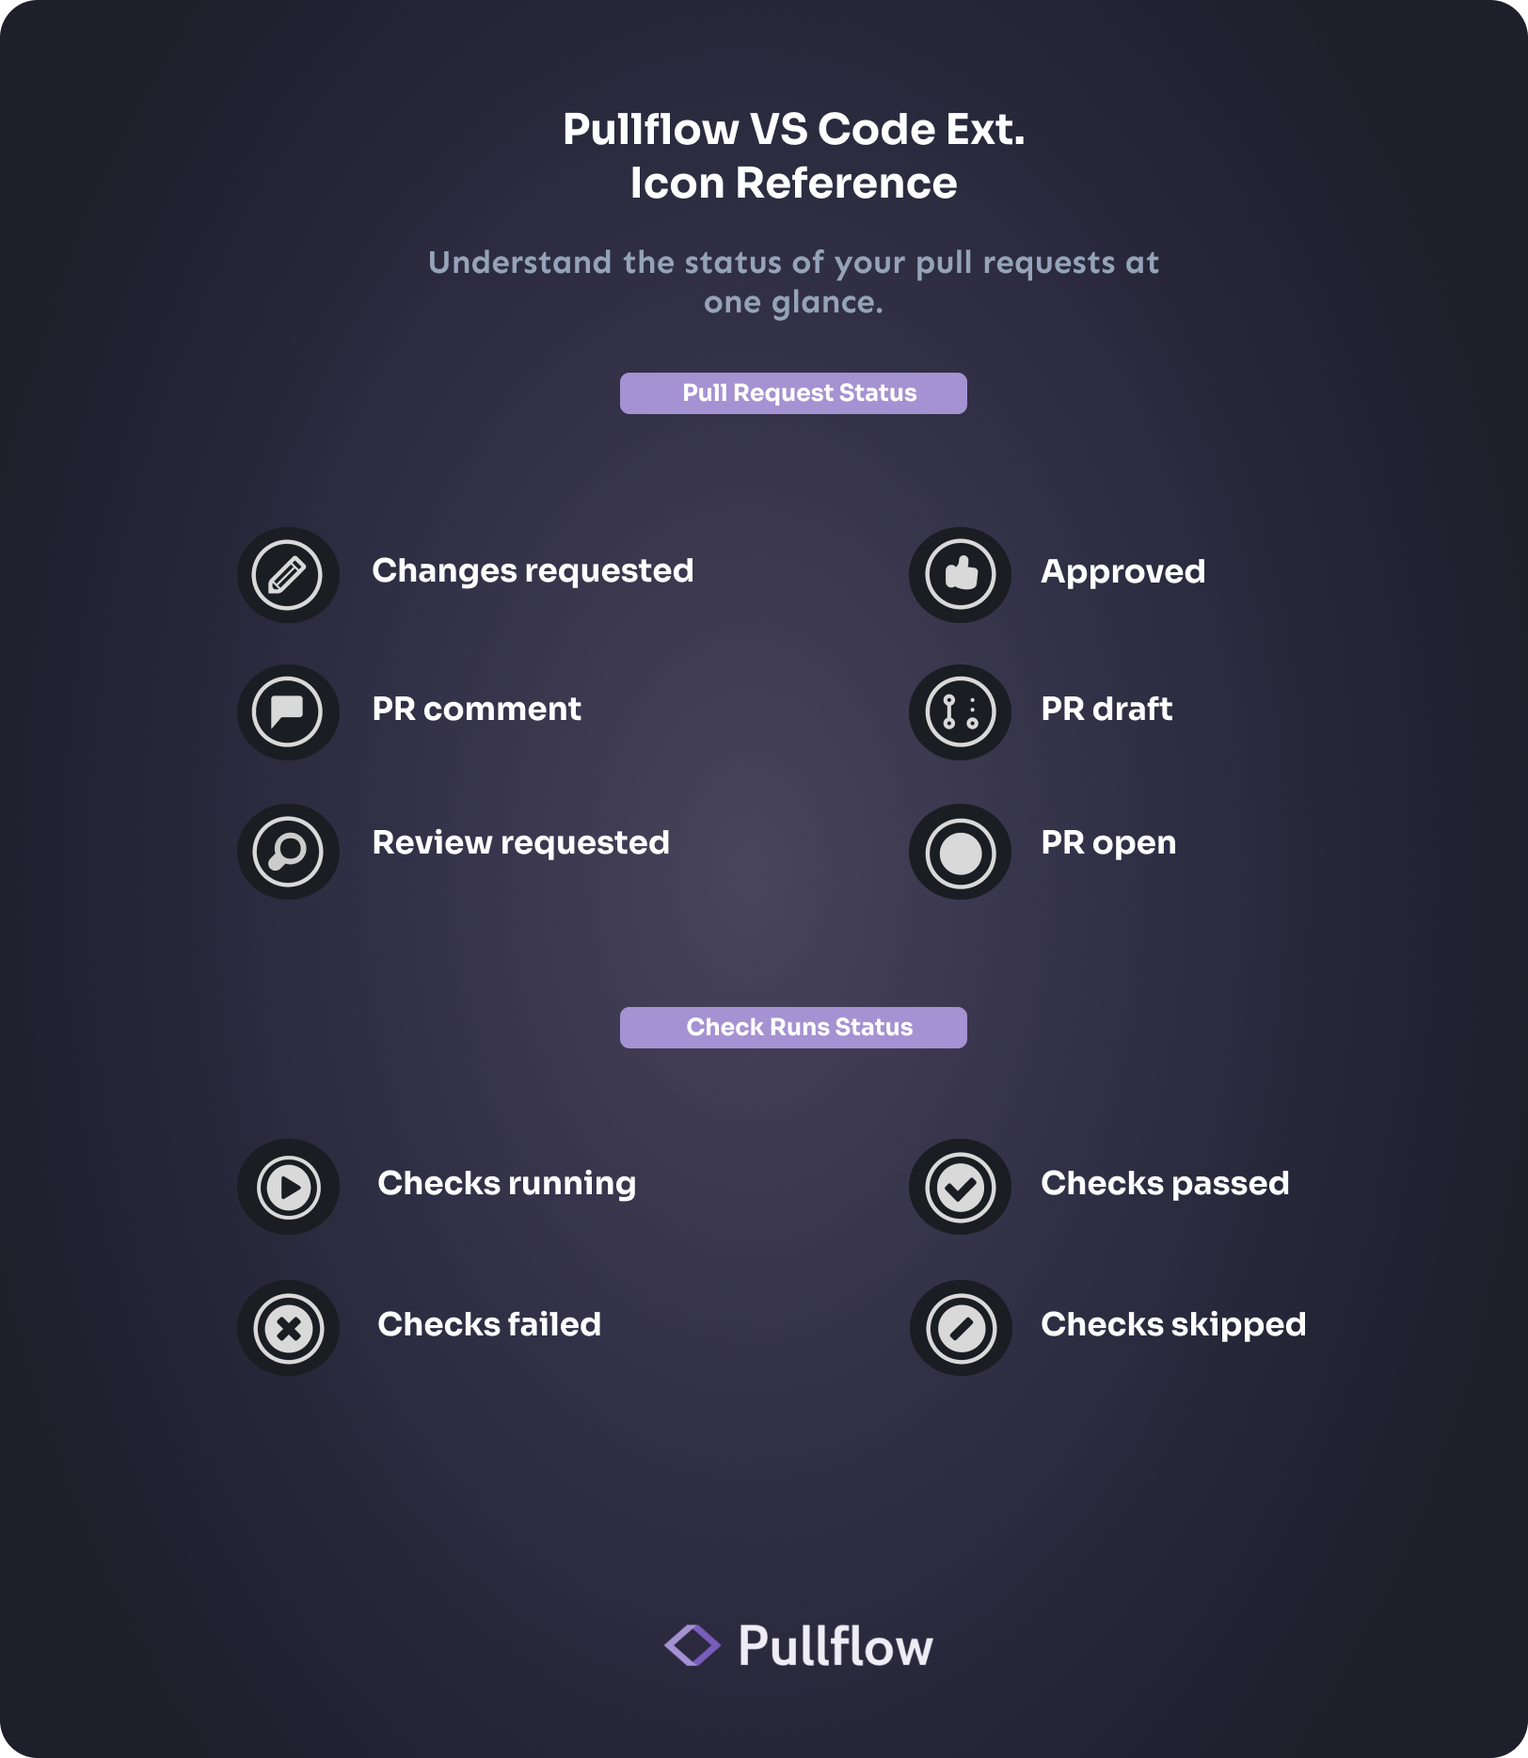
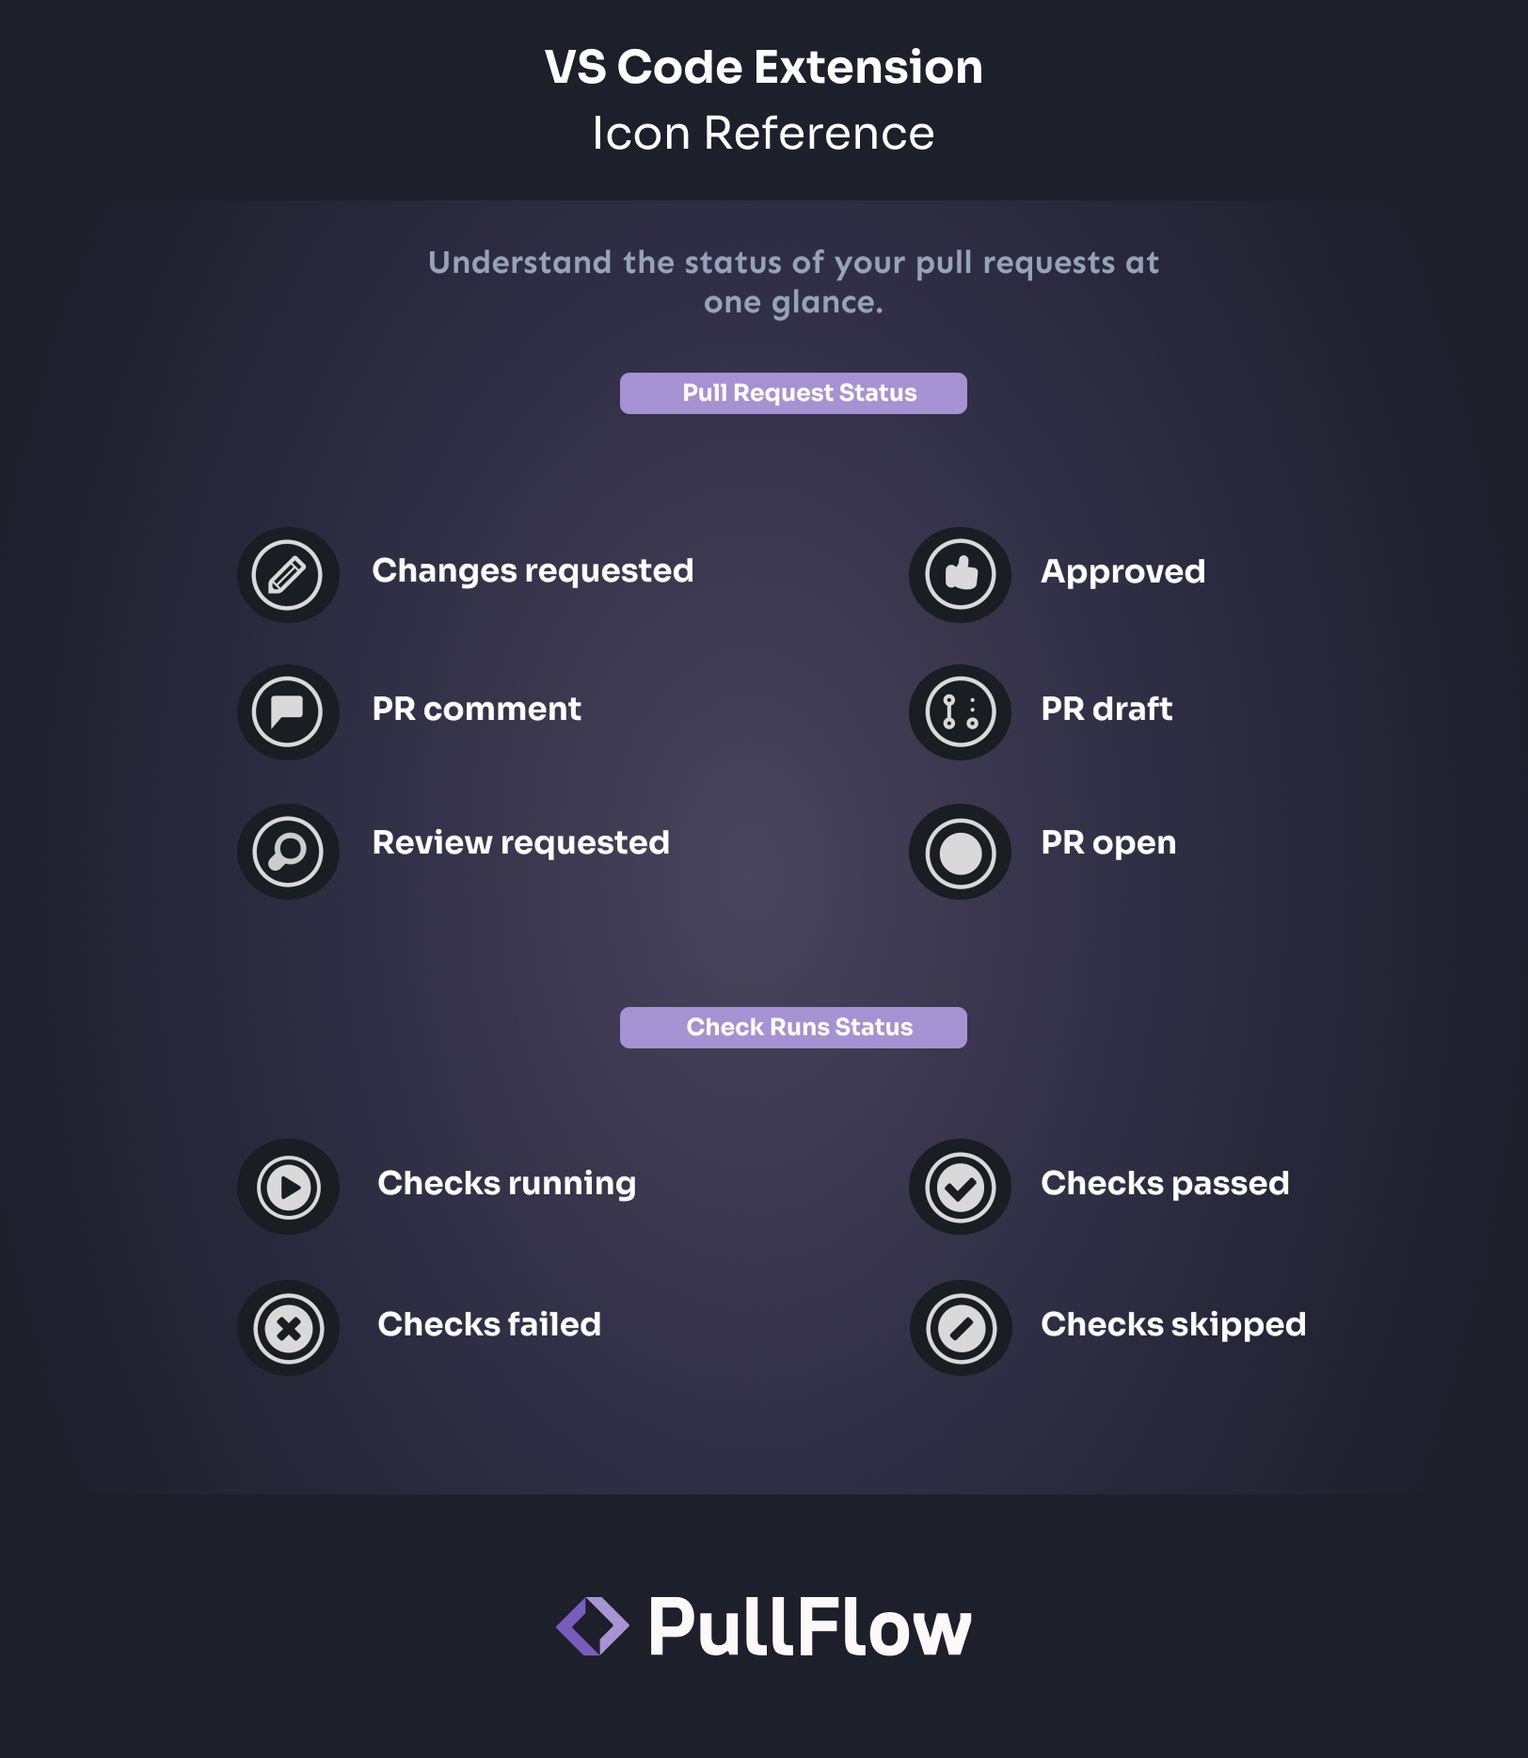
Update branding to use proper PullFlow naming conventions
- Updated all references from 'pullflow' to 'PullFlow' for consistent branding
- Modified package.json display name and publisher fields
- Updated README.md with correct PullFlow branding
- Standardized logo and icon references
- Updated all code references to use proper PullFlow casing
- Maintained technical functionality while improving brand consistency

diff --git a/src/views/webviews/welcome/welcome.ts b/src/views/webviews/welcome/welcome.ts
@@ -1,7 +1,7 @@
 import { ExtensionContext, ViewColumn, Webview, window, Uri } from 'vscode'
 
 const WelcomeView = {
-  title: 'Welcome to Pullflow',
+  title: 'Welcome to PullFlow',
   type: 'welcome-view',
 }
 
@@ -13,7 +13,7 @@ export const Welcome = {
       WelcomeView.title,
       column
     )
-    panel.iconPath = Uri.joinPath(context.extensionUri, 'assets/pullflow.png')
+    panel.iconPath = Uri.joinPath(context.extensionUri, 'assets/pullflow-logo.png')
     panel.webview.html = Welcome.getHtml(panel.webview, context)
     panel.reveal(column)
   },
@@ -30,14 +30,14 @@ export const Welcome = {
     <html lang="en">
 
     <head>
-      <title>Welcome to Pullflow</title>
+      <title>Welcome to PullFlow</title>
 
       <link rel="stylesheet" href=${stylePath} />
     </head>
 
     <body>
       <header>
-        <img src="${assetsPath}/pullflow-logo.png" alt="Pullflow" />
+        <img src="${assetsPath}/pullflow-logo.png" alt="PullFlow" />
         <div id="desc">
           <p>AI-enhanced code review collaboration across GitHub, Slack, and VS Code.</p>
         </div>
@@ -46,10 +46,10 @@ export const Welcome = {
         <section class="column">
 
           <div id="intro">
-            <p>Pullflow is an AI-enhanced code review collaboration platform backed by the co-founder of GitHub and used by
+            <p>PullFlow is an AI-enhanced code review collaboration platform backed by the co-founder of GitHub and used by
               some of the most innovative dev teams including <strong> Epic Games, Avenue, Hear.com,
                 and RedwoodJS. </strong> </p>
-            <p>Sign in to your accounts with Pullflow to enable bidirectional sync between GitHub, Slack and VS Code. New to Pullflow? <a
+            <p>Sign in to your accounts with PullFlow to enable bidirectional sync between GitHub, Slack and VS Code. New to PullFlow? <a
                 href="https://pullflow.com">Sign up for free.</a>
             </p>
           </div>
@@ -57,7 +57,7 @@ export const Welcome = {
             <img src="${assetsPath}/main.png" id="main-img" alt="Main" />
           </div>
           <div>
-            <h3>Supercharge your workflow with Pullflow for VS Code</h3>
+            <h3>Supercharge your workflow with PullFlow for VS Code</h3>
             <ul>
               <li>&nbsp;&nbsp;&nbsp;Effortlessly communicate across GitHub, Slack, and VS Code.</li>
               <li>&nbsp;&nbsp;&nbsp;Engage in meaningful conversations with contextual AI during PR discussions.</li>
@@ -104,14 +104,14 @@ export const Welcome = {
           <div id="get-started-section">
             <h3>Get Started</h3>
             <div>
-              <span> Pullflow is integrated with GitHub, Slack, and VS Code to help you merge PRs 4X faster. Here is
+              <span> PullFlow is integrated with GitHub, Slack, and VS Code to help you merge PRs 4X faster. Here is
                 how you can get started.</span>
             </div>
             <div>
               <ol>
-                <li>Sign up on <a href="https://app.pullflow.com"> Pullflow</a> and connect your Slack and GitHub accounts.
+                <li>Sign up on <a href="https://app.pullflow.com"> PullFlow</a> and connect your Slack and GitHub accounts.
                 </li>
-                <li> Click on <strong>Sign in to Pullflow</strong> from the VS Code status bar. </li>
+                <li> Click on <strong>Sign in to PullFlow</strong> from the VS Code status bar. </li>
                 <li> Thats it! Incoming PRs will show on your status bar</li>
                 <ol>
             </div>
@@ -121,29 +121,29 @@ export const Welcome = {
             <table>
               <tbody>
                 <tr>
-                  <td>Pullflow: Active Pull Requests (Ctrl/Cmd+Shift+,)</td>
+                  <td>PullFlow: Active Pull Requests (Ctrl/Cmd+Shift+,)</td>
                 </tr>
                 <tr>
-                  <td>Pullflow: Sign in</td>
+                  <td>PullFlow: Sign in</td>
                 </tr>
                 <tr>
-                  <td>Pullflow: Sign out</td>
+                  <td>PullFlow: Sign out</td>
                 </tr>
                 <tr>
-                  <td>Pullflow: Reconnect</td>
+                  <td>PullFlow: Reconnect</td>
                 </tr>
                 <tr>
-                  <td>Pullflow: Welcome</td>
+                  <td>PullFlow: Welcome</td>
                 </tr>
               </tbody>
             </table>
           </div>
           <div>
             <h3>Become a Contributor</h3>
-            <p>This extension is an open-source project created by <a href="https://github.com/pullflow">Pullflow Inc</a>.
+            <p>This extension is an open-source project created by <a href="https://github.com/pullflow">PullFlow Inc</a>.
               We encourage contributions, bug reports, and new feature suggestions. Feel free to fork the repository and add
               your own features.</p>
-            <p>This is just the beginning of Pullflow's VS Code extension, and we are eager to make improvements
+            <p>This is just the beginning of PullFlow's VS Code extension, and we are eager to make improvements
               based on your feedback. Please don't hesitate to share your thoughts with us through <a
                 href="https://github.com/pullflow/pullflow/issues">GitHub Issues</a> or on Twitter <a
                 href="https://twitter.com/pullflow">@pullflow</a>.</p>
@@ -151,7 +151,7 @@ export const Welcome = {
         </section>
       </section>
       <footer id="footer">
-        <i>The Pullflow team created this tool to help developers work more efficiently. It combines code management,
+        <i>The PullFlow team created this tool to help developers work more efficiently. It combines code management,
           review, and team chat in one place, so you don't have to switch between different apps. </i>
         </div>
       </footer>

diff --git a/src/pullRequestQuickActions/pullRequestQuickActions.ts b/src/pullRequestQuickActions/pullRequestQuickActions.ts
@@ -89,13 +89,13 @@ export const PullRequestQuickActions = {
         `${
           response.message
             ? response.message
-            : 'Pullflow: Something went wrong, failed to approve pull request'
+            : 'PullFlow: Something went wrong, failed to approve pull request'
         }`
       )
       return false
     }
 
-    window.showInformationMessage(`Pullflow: Pull request approved`)
+    window.showInformationMessage(`PullFlow: Pull request approved`)
     await Presence.set({
       status: PresenceStatus.Active,
       context,
@@ -214,7 +214,7 @@ export const PullRequestQuickActions = {
         }
 
         window.showInformationMessage(
-          `Pullflow: ${item[0].label} added as reviewer to pull request #${codeReview.prNumber}.`
+          `PullFlow: ${item[0].label} added as reviewer to pull request #${codeReview.prNumber}.`
         )
         return true
       },
@@ -296,7 +296,7 @@ export const PullRequestQuickActions = {
         )
         return false
       }
-      window.showInformationMessage(`Pullflow: Successfully set reminder.`)
+      window.showInformationMessage(`PullFlow: Successfully set reminder.`)
       return true
     }
 

diff --git a/src/utils/pullRequestsState.ts b/src/utils/pullRequestsState.ts
@@ -43,7 +43,7 @@ export const PullRequestState = {
     // if codeReviews contain error message
     if (codeReviews.requireRelogin) {
       log.error(codeReviews.error, module)
-      window.showInformationMessage(`Pullflow: Please login again`)
+      window.showInformationMessage(`PullFlow: Please login again`)
       commands.executeCommand(Command.signOut)
       return
     }
@@ -54,7 +54,7 @@ export const PullRequestState = {
         StatusBar.update({ context, statusBar, state: StatusBarState.Error })
       }
       window.showErrorMessage(
-        `Pullflow: Couldn't fetch pull requests. ${codeReviews.error.message}`
+        `PullFlow: Couldn't fetch pull requests. ${codeReviews.error.message}`
       )
       return
     }

diff --git a/src/commands/reconnect.ts b/src/commands/reconnect.ts
@@ -12,7 +12,7 @@ export const Reconnect = async (
   context: ExtensionContext,
   statusBar: StatusBarItem
 ) => {
-  log.info(`reconnecting to Pullflow`, module)
+  log.info(`reconnecting to PullFlow`, module)
 
   const session = await Authorization.currentSession(context)
   if (!session) {
@@ -28,7 +28,7 @@ export const Reconnect = async (
   // if codeReviews contain error message
   if (codeReviews.requireRelogin) {
     log.error(codeReviews.error, module)
-    window.showInformationMessage(`Pullflow: Please login again`)
+    window.showInformationMessage(`PullFlow: Please login again`)
     commands.executeCommand(Command.signOut)
     return
   }

diff --git a/src/commands/signIn.ts b/src/commands/signIn.ts
@@ -22,7 +22,7 @@ export const SignIn = async ({
   )
   const user = await Authorization.waitForUser(context, SIGN_IN_TIME_OUT)
   if (!user) {
-    window.showErrorMessage('Pullflow: Sign in failed')
+    window.showErrorMessage('PullFlow: Sign in failed')
     return
   }
   const session =
@@ -30,7 +30,7 @@ export const SignIn = async ({
     (await Authorization.createSession({ user, context }))
 
   if (!session) {
-    window.showErrorMessage('Pullflow: Sign in failed')
+    window.showErrorMessage('PullFlow: Sign in failed')
     return
   }
   await initialize({ context, statusBar })

diff --git a/src/views/statusBar/statusBar.ts b/src/views/statusBar/statusBar.ts
@@ -23,13 +23,13 @@ const statusBarProperties = {
     command: Command.activePullRequests,
     backgroundColor: new ThemeColor(Theme.statusBar.success),
     text: '',
-    tooltip: 'Pullflow - Active Pull Requests',
+    tooltip: 'PullFlow - Active Pull Requests',
   },
   signedOut: {
     command: Command.signIn,
     backgroundColor: new ThemeColor(Theme.statusBar.error),
-    text: '⚠ Sign in to Pullflow',
-    tooltip: 'Sign in to Pullflow account',
+    text: '⚠ Sign in to PullFlow',
+    tooltip: 'Sign in to PullFlow account',
   },
   loading: {
     command: null,

diff --git a/src/messages/messagePublisher.ts b/src/messages/messagePublisher.ts
@@ -87,8 +87,8 @@ export const MessagePublisher = {
 
     if (!toAccount.hasUser) {
       window.showInformationMessage(
-        `Failed to send message to ${toAccount.xid} because they are not a Pullflow user.
-            Please ask them to sign up to Pullflow at: https://app.pullflow.com`
+        `Failed to send message to ${toAccount.xid} because they are not a PullFlow user.
+            Please ask them to sign up to PullFlow at: https://app.pullflow.com`
       )
       return null
     }

diff --git a/src/commands/activePullRequests.ts b/src/commands/activePullRequests.ts
@@ -16,7 +16,7 @@ export const ActivePullRequests = (
     !codeReviews?.pendingUserCodeReviews?.length &&
     !codeReviews?.userAuthoredCodeReviews?.length
   ) {
-    window.showInformationMessage('Pullflow: You have no PRs waiting for you.')
+    window.showInformationMessage('PullFlow: You have no PRs waiting for you.')
     return
   }
 

diff --git a/src/utils/trace.ts b/src/utils/trace.ts
@@ -13,7 +13,7 @@ import { Store } from './store'
 import { AppConfig } from './appConfig'
 import { log } from './logger'
 
-const extensionInfo = extensions.getExtension('Pullflow.pullflow')?.packageJSON
+const extensionInfo = extensions.getExtension('PullFlow.pullflow')?.packageJSON
 
 type FakeTracer = {}
 type FakeBasicTracerProvider = {}

diff --git a/src/utils/logger.ts b/src/utils/logger.ts
@@ -1,6 +1,6 @@
 import { window } from 'vscode'
 
-const outputChannel = window.createOutputChannel('Pullflow')
+const outputChannel = window.createOutputChannel('PullFlow')
 
 const logMessage = (level: string, text: string, module: string) =>
   outputChannel.append(

diff --git a/README.md b/README.md
@@ -1,21 +1,21 @@
-## Pullflow for VS Code
+## PullFlow for VS Code
 
-Pullflow is a code review collaboration platform backed by the co-founder of GitHub and used by some of the most innovative dev teams, including **Epic Games, Avenue, Hear.com,** and **RedwoodJS.** New to Pullflow? See how you can merge quality PRs **4X** faster with synchronized conversation between developers, systems, and AI, across GitHub, Slack & VS Code.
+PullFlow is a code review collaboration platform backed by the co-founder of GitHub and used by some of the most innovative dev teams, including **Epic Games, Avenue, Hear.com,** and **RedwoodJS.** New to PullFlow? See how you can merge quality PRs **4X** faster with synchronized conversation between developers, systems, and AI, across GitHub, Slack & VS Code.
 
 **[Sign up at pullflow.com](https://pullflow.com)**.
 
-> “Love at first PR. Pullflow's beauty lies in its simplicity, which seamlessly integrates with your existing tools and streamlines the code review process. It lets me focus on writing code instead of navigating clunky interfaces.” - **Bhavin Vyas, Vice President @ WorkBoard**
+> “Love at first PR. PullFlow's beauty lies in its simplicity, which seamlessly integrates with your existing tools and streamlines the code review process. It lets me focus on writing code instead of navigating clunky interfaces.” - **Bhavin Vyas, Vice President @ WorkBoard**
 >
 
-The **Pullflow VS Code extension** brings all your code review workflows and collaboration into your IDE, helping you prioritize PRs, stay in the loop, take quick actions, and return to your flow state.
+The **PullFlow VS Code extension** brings all your code review workflows and collaboration into your IDE, helping you prioritize PRs, stay in the loop, take quick actions, and return to your flow state.
 
 ![main.png](./assets/main.png)
 
 ### Quick Start
 ---
 
-1. **Installation**: Install the “Pullflow” extension from the Visual Studio Marketplace or Open VSX Registry.
-2. **Sign in**: Click on “Sign in to Pullflow” from the VS Code status bar.
+1. **Installation**: Install the “PullFlow” extension from the Visual Studio Marketplace or Open VSX Registry.
+2. **Sign in**: Click on “Sign in to PullFlow” from the VS Code status bar.
 3. **Ready to use**: The extension is now ready to use ✨
 
 ## Key Features
@@ -51,7 +51,7 @@ Engage with your team by responding to comments quickly
 
 **Perfect Companion to GitHub Pull Request and Issues Extension**
 
-Access and review GitHub pull requests directly from your VS Code interface using the [GitHub Pull Requests and Issues](https://marketplace.visualstudio.com/items?itemName=GitHub.vscode-pull-request-github) extension. With Pullflow, all your code review activity will synchronize across GitHub and Slack.
+Access and review GitHub pull requests directly from your VS Code interface using the [GitHub Pull Requests and Issues](https://marketplace.visualstudio.com/items?itemName=GitHub.vscode-pull-request-github) extension. With PullFlow, all your code review activity will synchronize across GitHub and Slack.
 
 ![pr-github.gif](./assets/pr-github.gif)
 
@@ -65,9 +65,9 @@ The extension offers a convenient way to quickly understand the status of your P
 **Compatibility and Requirements**
 ---
 
-The Pullflow VS Code Extension requires:
+The PullFlow VS Code Extension requires:
 
-1. Pullflow account set up with Slack and GitHub connected
+1. PullFlow account set up with Slack and GitHub connected
 2. Visual Studio Code version 1.70.0 or above
 
 ## Data Security and Privacy
@@ -81,19 +81,19 @@ Prefer to opt out? No problem. Simply follow these steps:
 
 1. Press Ctrl + Shift + P (or Command + Shift + P on Mac).
 2. Go to `Preferences: Open Workspace Settings`
-3. Search for `Pullflow Flow`
-4. Uncheck `Pullflow > Automatic flow detection`
+3. Search for `PullFlow Flow`
+4. Uncheck `PullFlow > Automatic flow detection`
 5. Reload extension
 
 ## Contributing
 
-This extension is an open-source project created by [Pullflow Inc](https://github.com/pullflow/vscode-pullflow). We encourage contributions, bug reports, and new feature suggestions. Feel free to fork the repository and add your own features.
+This extension is an open-source project created by [PullFlow Inc](https://github.com/pullflow/vscode-pullflow). We encourage contributions, bug reports, and new feature suggestions. Feel free to fork the repository and add your own features.
 
-This is just the beginning of Pullflow's VS Code Slack integration, and we are eager to make improvements based on your feedback. Please don't hesitate to share your thoughts with us through [GitHub issues](https://github.com/pullflow/vscode-pullflow/issues) or on Twitter [@pullflow](https://twitter.com/pullflow).
+This is just the beginning of PullFlow's VS Code Slack integration, and we are eager to make improvements based on your feedback. Please don't hesitate to share your thoughts with us through [GitHub issues](https://github.com/pullflow/vscode-pullflow/issues) or on Twitter [@pullflow](https://twitter.com/pullflow).
 
 #### **Development Guidelines**
 
-1. Set up Pullflow account and connect your GitHub and Slack accounts.
+1. Set up PullFlow account and connect your GitHub and Slack accounts.
 2. Clone the repository.
 3. Create `.env` file in the root directory and add the following environment variables:
 
@@ -121,4 +121,4 @@ This tool is designed for developers seeking a unified workspace that reduces co
 
 ---
 
-*For more information, documentation, and updates, visit **[Pullflow's official website](https://pullflow.com/)** or connect with us on **[Twitter](https://twitter.com/pullflow)**.*
+*For more information, documentation, and updates, visit **[PullFlow's official website](https://pullflow.com/)** or connect with us on **[Twitter](https://twitter.com/pullflow)**.*
